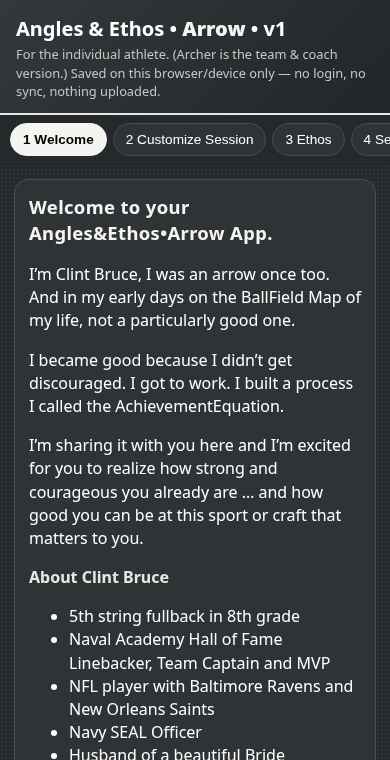
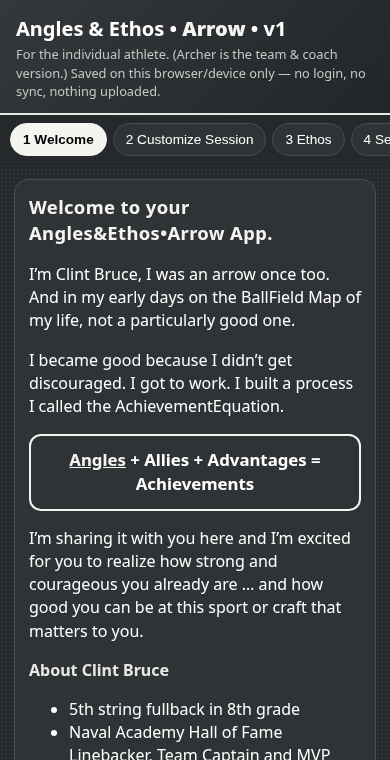
Move AchievementEquation up in welcome

Changed region(s): [[0.0615, 0.575, 0.9231, 1.0], [0.1231, 0.9684, 0.1538, 0.9987]]

diff --git a/index.html b/index.html
@@ -81,10 +81,10 @@ function render(){
 function vWelcome(){return `<div class="card"><h2>Welcome to your Angles&amp;Ethos•Arrow App.</h2>
 <p>I’m Clint Bruce, I was an arrow once too. And in my early days on the BallField Map of my life, not a particularly good one.</p>
 <p>I became good because I didn’t get discouraged. I got to work. I built a process I called the AchievementEquation.</p>
+<div class="eq" id="eq"><span class="own">Angles</span> +&#8203; Allies +&#8203; Advantages = Achievements</div>
 <p>I’m sharing it with you here and I’m excited for you to realize how strong and courageous you already are … and how good you can be at this sport or craft that matters to you.</p>
 <div id="bio"><h3>About Clint Bruce</h3><ul>
 <li>5th string fullback in 8th grade</li><li>Naval Academy Hall of Fame Linebacker, Team Captain and MVP</li><li>NFL player with Baltimore Ravens and New Orleans Saints</li><li>Navy SEAL Officer</li><li>Husband of a beautiful Bride</li><li>Father of 3 BraveBruceBeauties.</li></ul></div>
-<div class="eq"><span class="own">Angles</span> + Allies + Advantages = Achievements</div>
 <p><b>Conviction</b> is what happens when our spirit, brain, mind, and (eventually, in my case) body are fully aligned on a belief and a mission.</p>
 <h3>Why Arrow focuses on Angles</h3>
 <p>Angles are the part of the equation we fully own. We are often <i>assigned</i> our Allies on the BallField, BattleField, and BoardRoom Maps. And we are most often <i>stewards</i> of our Advantages (Talent and Treasure), not their sources. But the Angles — those are ours.</p>

diff --git a/test.py b/test.py
@@ -97,3 +97,15 @@ with sync_playwright() as p:
     assert pg.evaluate('document.documentElement.scrollWidth')<=vp['width']
     if vp['width']==390: pg.screenshot(path='shots/arrow-welcome-bio.png',clip={'x':0,'y':0,'width':390,'height':760})
     print('bio ok',e); pg.close()
+with sync_playwright() as p:
+  b=p.chromium.launch(executable_path='/usr/bin/google-chrome',args=['--no-sandbox'])
+  for vp in [{'width':390,'height':844},{'width':1280,'height':900}]:
+    pg=b.new_page(viewport=vp); e=[]; pg.on('pageerror',lambda x:e.append(str(x)))
+    pg.goto(url); pg.evaluate('localStorage.clear()'); pg.reload()
+    assert pg.locator('.eq').count()==1 and pg.is_visible('#eq')
+    assert pg.inner_text('#eq').replace('\u200b','')=='Angles + Allies + Advantages = Achievements'
+    o=pg.evaluate("""()=>{const t=document.querySelector('main').innerHTML;return [t.indexOf('called the AchievementEquation.'),t.indexOf('id="eq"'),t.indexOf('sharing it with you here')]}""")
+    assert o[0]<o[1]<o[2],o
+    assert pg.evaluate('document.documentElement.scrollWidth')<=vp['width']
+    if vp['width']==390: pg.screenshot(path='shots/arrow-welcome-equation.png',clip={'x':0,'y':0,'width':390,'height':640})
+    print('eq ok',e); pg.close()
